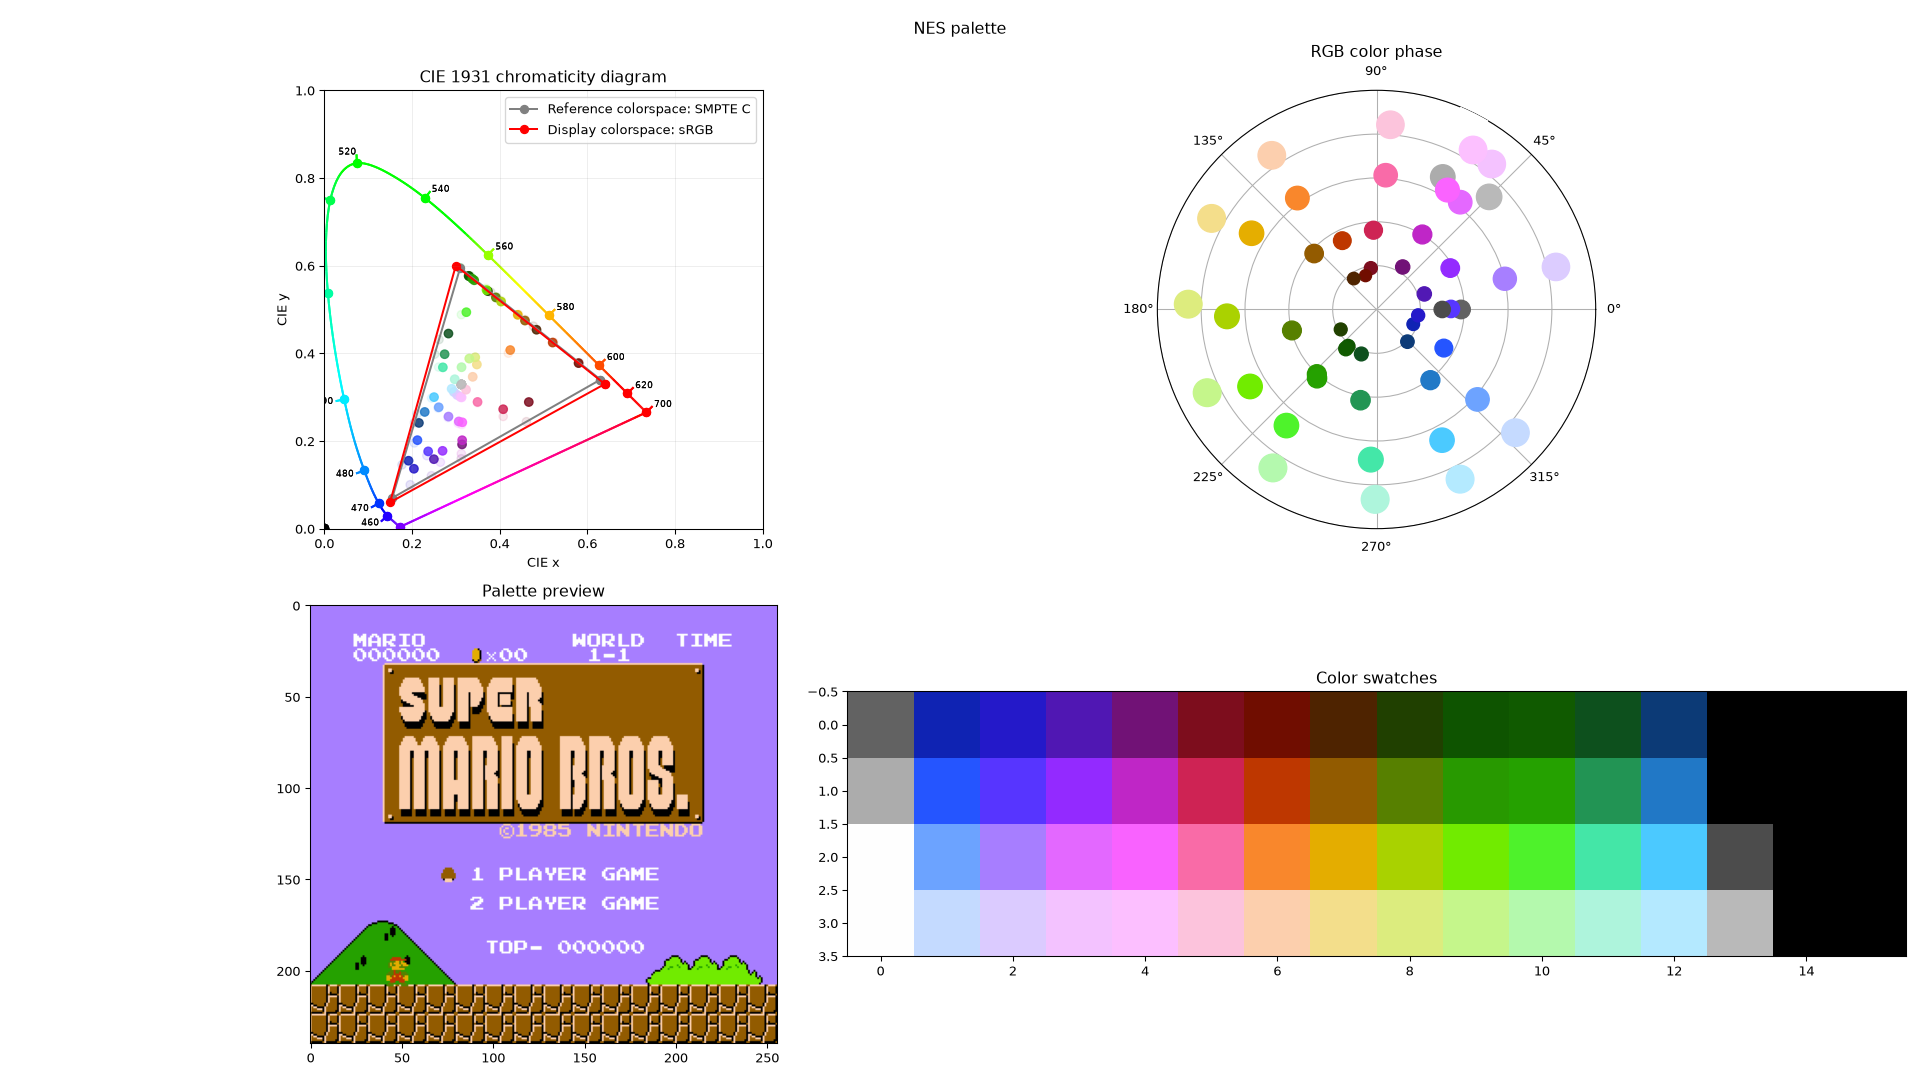
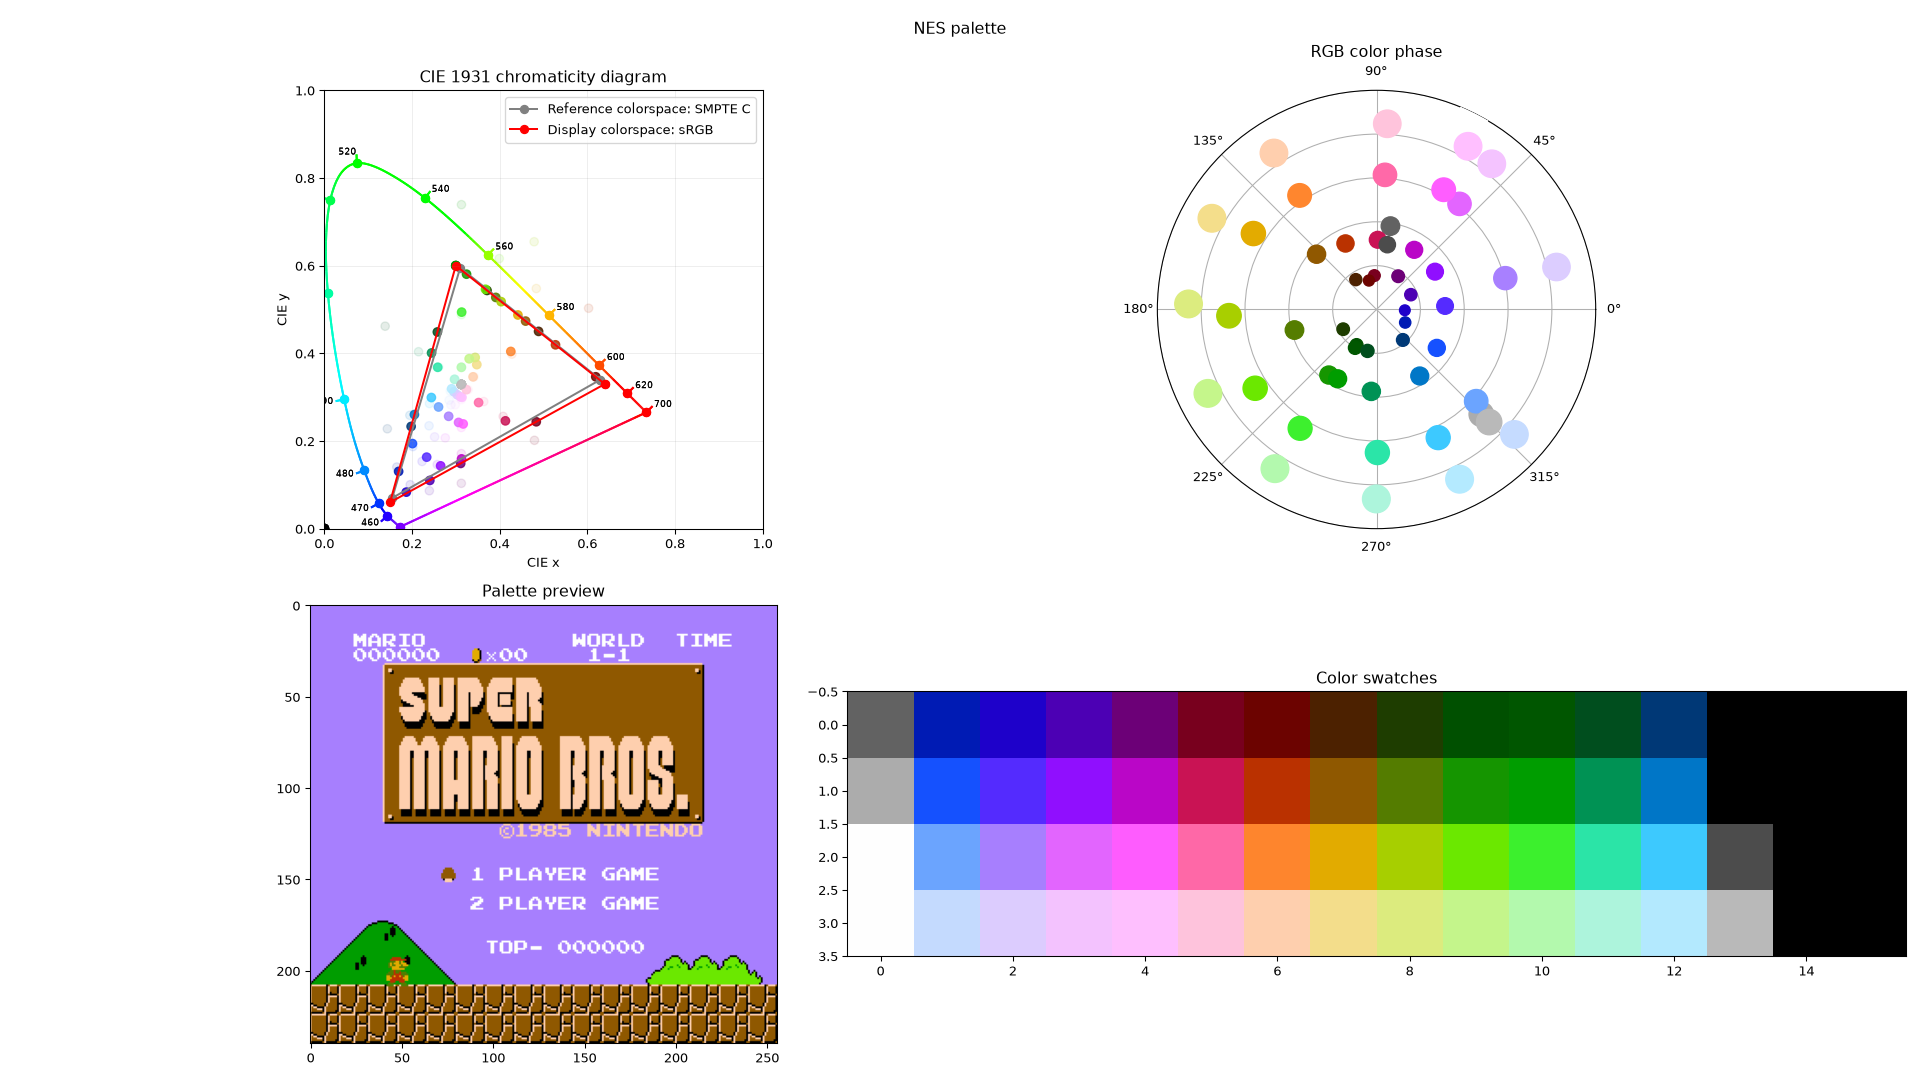
feat: Refactor clipping and gamma handling
This addresses #4. Thanks, Dan Mons!

diff --git a/pally.py b/pally.py
@@ -25,7 +25,7 @@ import argparse
 import numpy as np
 import ppu_composite as ppu
 
-VERSION = "0.25.0"
+VERSION = "0.26.0"
 
 def parse_argv(argv):
     parser=argparse.ArgumentParser(
@@ -130,7 +130,7 @@ def parse_argv(argv):
         "-c",
         "--clip",
         type=str,
-        help="clips out-of-gamut RGB colors. disabling this may cause undefined behavior in non-signed formats.",
+        help="clips out-of-gamut RGB colors. disabling this may cause undefined behavior in non-signed formats. This also causes some colors to be indeterminate (NAN) if applying a CCTF or gamma transfer function. Default = \"clip\"",
         choices=[
             "none",
             "clip",
@@ -180,11 +180,6 @@ def parse_argv(argv):
         type = np.float64,
         help = "gain adjustment to signal before decoding, in IRE units, default = 0.0",
         default = 0.0)
-    parser.add_argument(
-        "-gam",
-        "--gamma",
-        type = np.float64,
-        help = "if defined, will apply a simple OETF gamma transfer function instead, where the EOTF function is assumed to be gamma 2.2.")
     parser.add_argument(
         "--delay-line-filter",
         action = "store_true",
@@ -299,6 +294,23 @@ def parse_argv(argv):
         "--colorimetry-disable",
         action = "store_true",
         help = "disable all colorimetry functions")
+    parser.add_argument(
+        "-gam",
+        "--gamma",
+        type = np.float64,
+        help = "if defined, this will apply a simple OETF gamma transfer function instead, where the EOTF function is assumed to be gamma 2.2.")
+    parser.add_argument(
+        "-gnc",
+        "--gamma-negative-clip",
+        type = str,
+        help = "Negative value handling for gamma transfer, if defined. default = Preserve",
+        choices=[
+            "Indeterminate",
+            "Mirror",
+            "Preserve",
+            "Clamp",
+        ],
+        default = "Preserve")
 
     # colorimetry reference RGB and whitepoint primaries
     parser.add_argument(
@@ -676,12 +688,12 @@ def normalize_RGB(RGB_buffer, args=None):
                 color_clip_darken(RGB_buffer)
             case "desaturate":
                 color_clip_desaturate(RGB_buffer)
-            case "clip":
-                np.clip(RGB_buffer, 0, 1, out=RGB_buffer)
     elif (args.normalize is not None):
         if (args.normalize != "scale clip negative"):
             RGB_buffer -= np.amin(RGB_buffer)
         RGB_buffer /= np.amax(RGB_buffer)
+    if (args.clip != "none"):
+        np.clip(RGB_buffer, 0, 1, out=RGB_buffer)
 
 def pixel_codec_composite(YUV_buffer, args=None, signal_black_point=None, signal_white_point=None):
     colorburst_phase = 0
@@ -1385,72 +1397,73 @@ def main(argv=None):
         RGB_buffer -= signal_black_point
         RGB_buffer /= (signal_white_point - signal_black_point)
 
-        # pre-clipping to avoid undefined behavior with colour-science
-        normalize_RGB(RGB_buffer, args)
-
         # preserve uncorrected RGB for color plotting
         RGB_uncorrected = RGB_buffer
 
-        if (not args.colorimetry_disable or not args.yuv_format):
+        if not args.colorimetry_disable or not args.yuv_format:
             # convert RGB to display output
+
+            # transform color primaries
+            if not colorspace_equality(s_colorspace, t_colorspace):
+                if args.debug: print("gamma colorspace transform!")
+                if args.inverse_chromatic_transform:
+                    if args.debug:
+                        print("inverse transform!")
+                        print(colour.matrix_RGB_to_RGB(t_colorspace, s_colorspace))
+                    RGB_buffer = colour.RGB_to_RGB(
+                        RGB_buffer,
+                        t_colorspace,
+                        s_colorspace,
+                        chromatic_adaptation_transform=args.chromatic_adaptation_transform)
+                else:
+                    RGB_buffer = colour.RGB_to_RGB(
+                        RGB_buffer,
+                        s_colorspace,
+                        t_colorspace,
+                        chromatic_adaptation_transform=args.chromatic_adaptation_transform)
+                    if args.debug:
+                        print(colour.matrix_RGB_to_RGB(s_colorspace, t_colorspace))
+
+            # pre-clipping to avoid undefined behavior with CCTF
+            if args.gamma is None:
+                normalize_RGB(RGB_buffer, args)
+
+            # apply CCTF either through gamma or specified colorspace
             if args.gamma is not None:
                 # electro-optic transfer via gamma function
-                if (not args.electro_optic_disable):
-                    RGB_buffer = colour.gamma_function(RGB_buffer, 2.2)
-                    RGB_uncorrected = colour.gamma_function(RGB_uncorrected, 2.2)
-
-                # transform color primaries
-                if not colorspace_equality(s_colorspace, t_colorspace):
-                    if (args.debug): print("gamma colorspace transform!")
-                    if (args.inverse_chromatic_transform):
-                        if (args.debug): print("inverse transform!")
-                        RGB_buffer = colour.RGB_to_RGB(
-                            RGB_buffer,
-                            t_colorspace,
-                            s_colorspace,
-                            chromatic_adaptation_transform=args.chromatic_adaptation_transform)
-                        if (args.debug): print(colour.matrix_RGB_to_RGB(t_colorspace, s_colorspace))
-                    else:
-                        RGB_buffer = colour.RGB_to_RGB(
-                            RGB_buffer,
-                            s_colorspace,
-                            t_colorspace,
-                            chromatic_adaptation_transform=args.chromatic_adaptation_transform)
-                        if (args.debug): print(colour.matrix_RGB_to_RGB(s_colorspace, t_colorspace))
-
+                if not args.electro_optic_disable:
+                    RGB_buffer = colour.gamma_function(
+                        RGB_buffer,
+                        2.2,
+                        negative_number_handling=args.gamma_negative_clip
+                    )
+                    RGB_uncorrected = colour.gamma_function(
+                        RGB_uncorrected,
+                        2.2,
+                        negative_number_handling=args.gamma_negative_clip
+                    )
                 # opto-electronic transfer via gamma function
-                if (not args.opto_electronic_disable):
-                    RGB_buffer = colour.gamma_function(RGB_buffer, 1/args.gamma)
-                    RGB_uncorrected = colour.gamma_function(RGB_uncorrected, 1/args.gamma)
-
+                if not args.opto_electronic_disable:
+                    RGB_buffer = colour.gamma_function(
+                        RGB_buffer,
+                        1/args.gamma,
+                        negative_number_handling=args.gamma_negative_clip
+                        )
+                    RGB_uncorrected = colour.gamma_function(
+                        RGB_uncorrected,
+                        1/args.gamma,
+                        negative_number_handling=args.gamma_negative_clip
+                    )
+            elif args.inverse_chromatic_transform:
+                if not args.electro_optic_disable:
+                    RGB_buffer = t_colorspace.cctf_decoding(RGB_buffer)
+                if not args.opto_electronic_disable:
+                    RGB_buffer = s_colorspace.cctf_encoding(RGB_buffer)
             else:
-                if not colorspace_equality(s_colorspace, t_colorspace):
-                    # perform transform only when colorspaces actually differ
-                    if (args.debug): print("colorspace transform!")
-                    if (args.inverse_chromatic_transform):
-                        if (args.debug): print("inverse transform!")
-                        RGB_buffer = colour.RGB_to_RGB(
-                            RGB_buffer,
-                            t_colorspace,
-                            s_colorspace,
-                            chromatic_adaptation_transform=args.chromatic_adaptation_transform,
-                            apply_cctf_decoding=(not args.electro_optic_disable),
-                            apply_cctf_encoding=(not args.opto_electronic_disable))
-                        if (args.debug): print(colour.matrix_RGB_to_RGB(t_colorspace, s_colorspace))
-                    else:
-                        RGB_buffer = colour.RGB_to_RGB(
-                            RGB_buffer,
-                            s_colorspace,
-                            t_colorspace,
-                            chromatic_adaptation_transform=args.chromatic_adaptation_transform,
-                            apply_cctf_decoding=(not args.electro_optic_disable),
-                            apply_cctf_encoding=(not args.opto_electronic_disable))
-                        if (args.debug): print(colour.matrix_RGB_to_RGB(s_colorspace, t_colorspace))
-
-        # if permitted, clip
-        # this may produce values beyond 0-1
-        normalize_RGB(RGB_buffer, args)
-        normalize_RGB(RGB_uncorrected, args)
+                if not args.electro_optic_disable:
+                    RGB_buffer = s_colorspace.cctf_decoding(RGB_buffer)
+                if not args.opto_electronic_disable:
+                    RGB_buffer = t_colorspace.cctf_encoding(RGB_buffer)
 
         output_format = {
             ".pal uint8": output_binary_uint8,

diff --git a/README.md b/README.md
@@ -37,7 +37,7 @@ usage: pally.py [-h] [-d] [--skip-plot] [-o OUTPUT]
                 [-ppu {2C02,2C03,2C04-0000,2C04-0001,2C04-0002,2C04-0003,2C04-0004,2C05-99,2C07}]
                 [-c {none,clip,darken,desaturate}] [-bri BRIGHTNESS]
                 [-con CONTRAST] [-hue HUE] [-sat SATURATION]
-                [-blp BLACK_POINT] [-whp WHITE_POINT] [-gai GAIN] [-gam GAMMA]
+                [-blp BLACK_POINT] [-whp WHITE_POINT] [-gai GAIN]
                 [--delay-line-filter] [-agc {None,sync,burst}]
                 [-axs {None,CXA2025AS_JP,CXA2025AS_US,bisqwit_NTSC_1953}]
                 [-bse] [-spg] [-phs PHASE_SKEW] [-phd PHASE_DISTORTION]
@@ -47,6 +47,7 @@ usage: pally.py [-h] [-d] [--skip-plot] [-o OUTPUT]
                 [-cat CHROMATIC_ADAPTATION_TRANSFORM] [-ict]
                 [-oetf OPTO_ELECTRONIC] [-eotf ELECTRO_OPTIC]
                 [--opto-electronic-disable] [--electro-optic-disable] [-cld]
+                [-gam GAMMA] [-gnc {Indeterminate,Mirror,Preserve,Clamp}]
                 [-rpr REFERENCE_PRIMARIES_R REFERENCE_PRIMARIES_R]
                 [-rpg REFERENCE_PRIMARIES_G REFERENCE_PRIMARIES_G]
                 [-rpb REFERENCE_PRIMARIES_B REFERENCE_PRIMARIES_B]
@@ -89,7 +90,10 @@ options:
                         PPU chip used for generating colors. default = 2C02
   -c {none,clip,darken,desaturate}, --clip {none,clip,darken,desaturate}
                         clips out-of-gamut RGB colors. disabling this may
-                        cause undefined behavior in non-signed formats.
+                        cause undefined behavior in non-signed formats. This
+                        also causes some colors to be indeterminate (NAN) if
+                        applying a CCTF or gamma transfer function. Default =
+                        "clip"
   -bri BRIGHTNESS, --brightness BRIGHTNESS
                         luma brightness delta in IRE units, default = 0.0
   -con CONTRAST, --contrast CONTRAST
@@ -104,10 +108,6 @@ options:
   -gai GAIN, --gain GAIN
                         gain adjustment to signal before decoding, in IRE
                         units, default = 0.0
-  -gam GAMMA, --gamma GAMMA
-                        if defined, will apply a simple OETF gamma transfer
-                        function instead, where the EOTF function is assumed
-                        to be gamma 2.2.
   --delay-line-filter   use 1D delay line comb filter decoding instead of
                         single-line decoding
   -agc {None,sync,burst}, --auto-gain-control {None,sync,burst}
@@ -163,6 +163,13 @@ options:
                         disable converting linear signal to linear light
   -cld, --colorimetry-disable
                         disable all colorimetry functions
+  -gam GAMMA, --gamma GAMMA
+                        if defined, this will apply a simple OETF gamma
+                        transfer function instead, where the EOTF function is
+                        assumed to be gamma 2.2.
+  -gnc {Indeterminate,Mirror,Preserve,Clamp}, --gamma-negative-clip {Indeterminate,Mirror,Preserve,Clamp}
+                        Negative value handling for gamma transfer, if
+                        defined. default = Preserve
   -rpr REFERENCE_PRIMARIES_R REFERENCE_PRIMARIES_R, --reference-primaries-r REFERENCE_PRIMARIES_R REFERENCE_PRIMARIES_R
                         set custom reference color primary R, in CIE xy
                         chromaticity coordinates
@@ -188,7 +195,7 @@ options:
                         set custom display whitepoint, in CIE xy chromaticity
                         coordinates
 
-version 0.25.0
+version 0.26.0
 ```
 
 ## License
